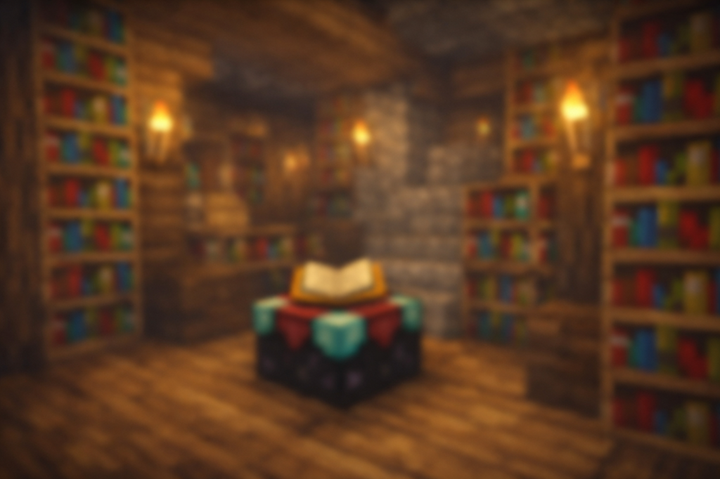
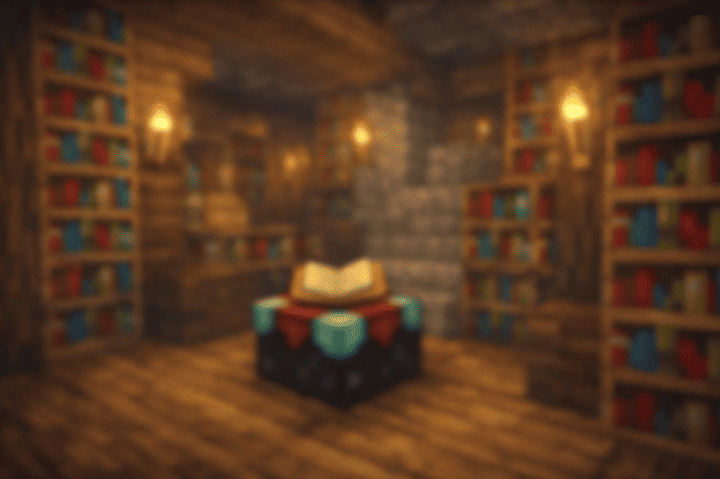
Image compression implemented

diff --git a/MCLang-core/src/main/java/org/tsob/MCLang/FileIO/JsonFileIOMinecraftLang.java b/MCLang-core/src/main/java/org/tsob/MCLang/FileIO/JsonFileIOMinecraftLang.java
@@ -71,7 +71,11 @@ public class JsonFileIOMinecraftLang extends JsonFileIO {
   /**
    * 取得 Minecraft 版本號（主.次.修）
    * 1.21.X 是最後了
-   * 之後都是 26.X 開始 編碼意義是 年度.版本
+   * 之後都是 26.X 開始 編碼意義是 年度.版本.小版本
+   * 所以是:
+   *  - 26.1
+   *  - 26.1.1
+   *  - 26.1.2
    */
   private static String getMinecraftVersion() {
     String bukkitVer = Bukkit.getBukkitVersion(); // 例如 1.21.5-R0.1-SNAPSHOT
@@ -84,7 +88,10 @@ public class JsonFileIOMinecraftLang extends JsonFileIO {
       if (arr.length == 2)
         return arr[0] + "." + arr[1] + ".0";
     } else {
-      return arr[0] + "." + arr[1];
+      if (arr.length >= 3)
+        return arr[0] + "." + arr[1] + "." + arr[2];
+      if (arr.length == 2)
+        return arr[0] + "." + arr[1];
     }
     return bukkitVer.split("-")[0];
   }

diff --git a/update.md b/update.md
@@ -2,6 +2,8 @@
 * Added compatibility handling for potion-related features
 * Organized translation files
 * Update web style to match Minecraft GUI.
+* Fixed minecraft 26.X version parsing to include minor versions.
+* Image compression implemented
 
 ## 1.2.1
 * Fixed the logic for checking updates on server startup.
